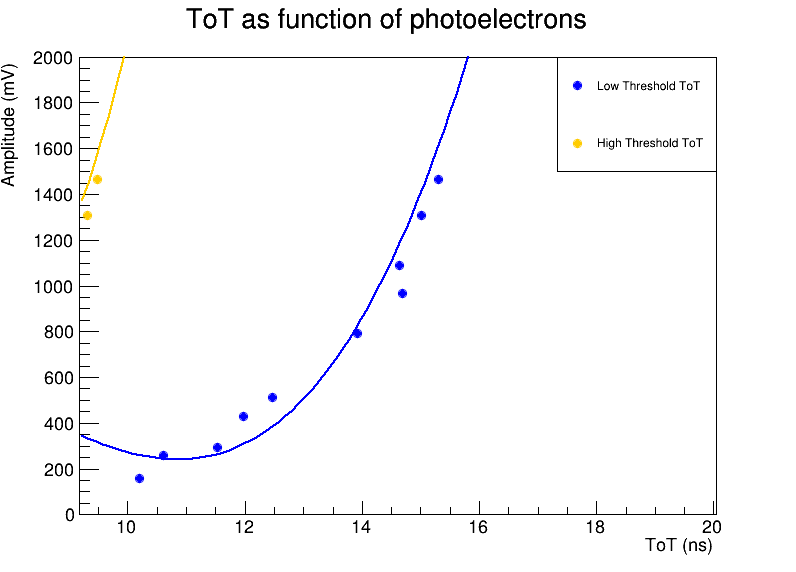
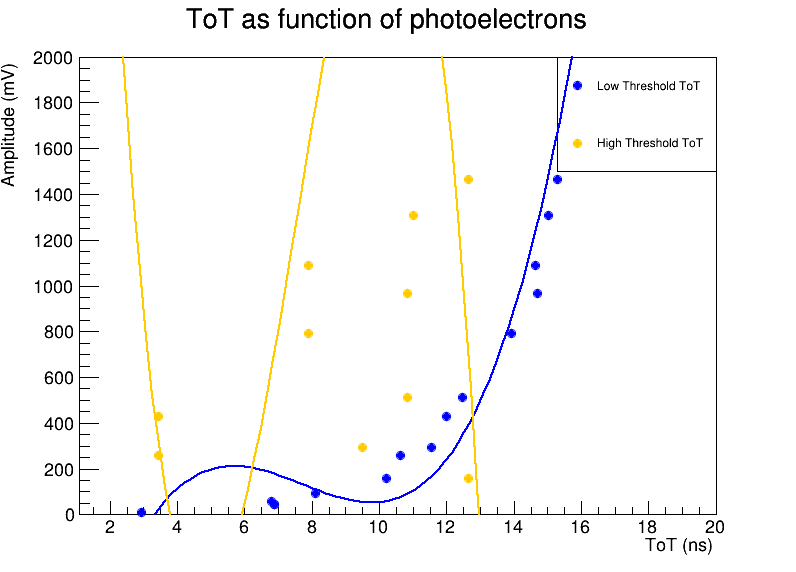
new commit

diff --git a/time_distribution_graph.C b/time_distribution_graph.C
@@ -234,18 +234,22 @@ int main() {
     }
 
     // Filtraggio dei valori negativi
-    std::vector<double> N_filtered, tot_l_filtered, tot_h_filtered;
+    std::vector<double> N_filtered, N_filtered_h,tot_l_filtered, tot_h_filtered;
     for (size_t i = 0; i < N.size(); ++i) {
-        if (tot_l[i] >= 0 && tot_h[i] >= 0) {
+        if (tot_l[i] >= 0) {
             N_filtered.push_back(N[i]);
             tot_l_filtered.push_back(tot_l[i]);
+            tot_h_filtered.push_back(tot_h[i]);
+        }
+	if (tot_h[i] >= 0) {
+            N_filtered_h.push_back(N[i]);
             tot_h_filtered.push_back(tot_h[i]);
         }
     }
 
     // Creazione del grafico usando ROOT
     TGraph *gr_low = new TGraph(N_filtered.size(), tot_l_filtered.data(), N_filtered.data());
-    TGraph *gr_high = new TGraph(N_filtered.size(), tot_h_filtered.data(), N_filtered.data());
+    TGraph *gr_high = new TGraph(N_filtered_h.size(), tot_h_filtered.data(), N_filtered_h.data());
     // Creazione di una tela per il disegno del grafico
     TCanvas *c1 = new TCanvas("c1", "N vs ToT", 800, 600);
 
